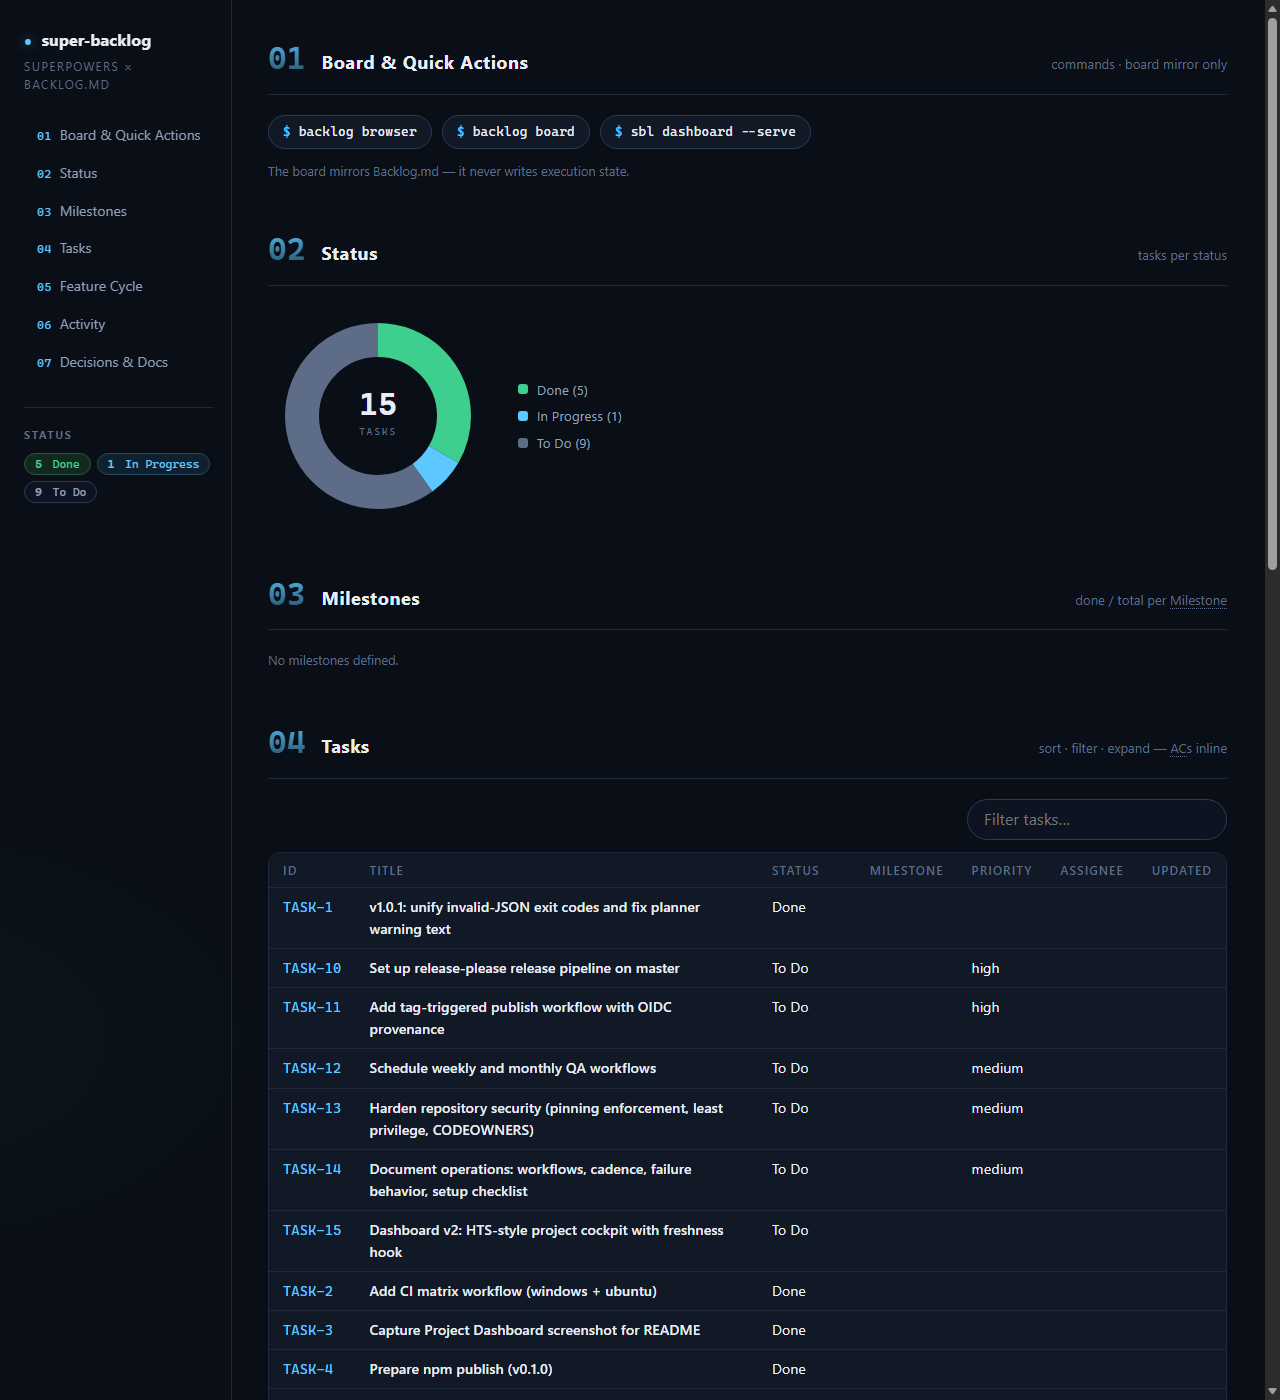
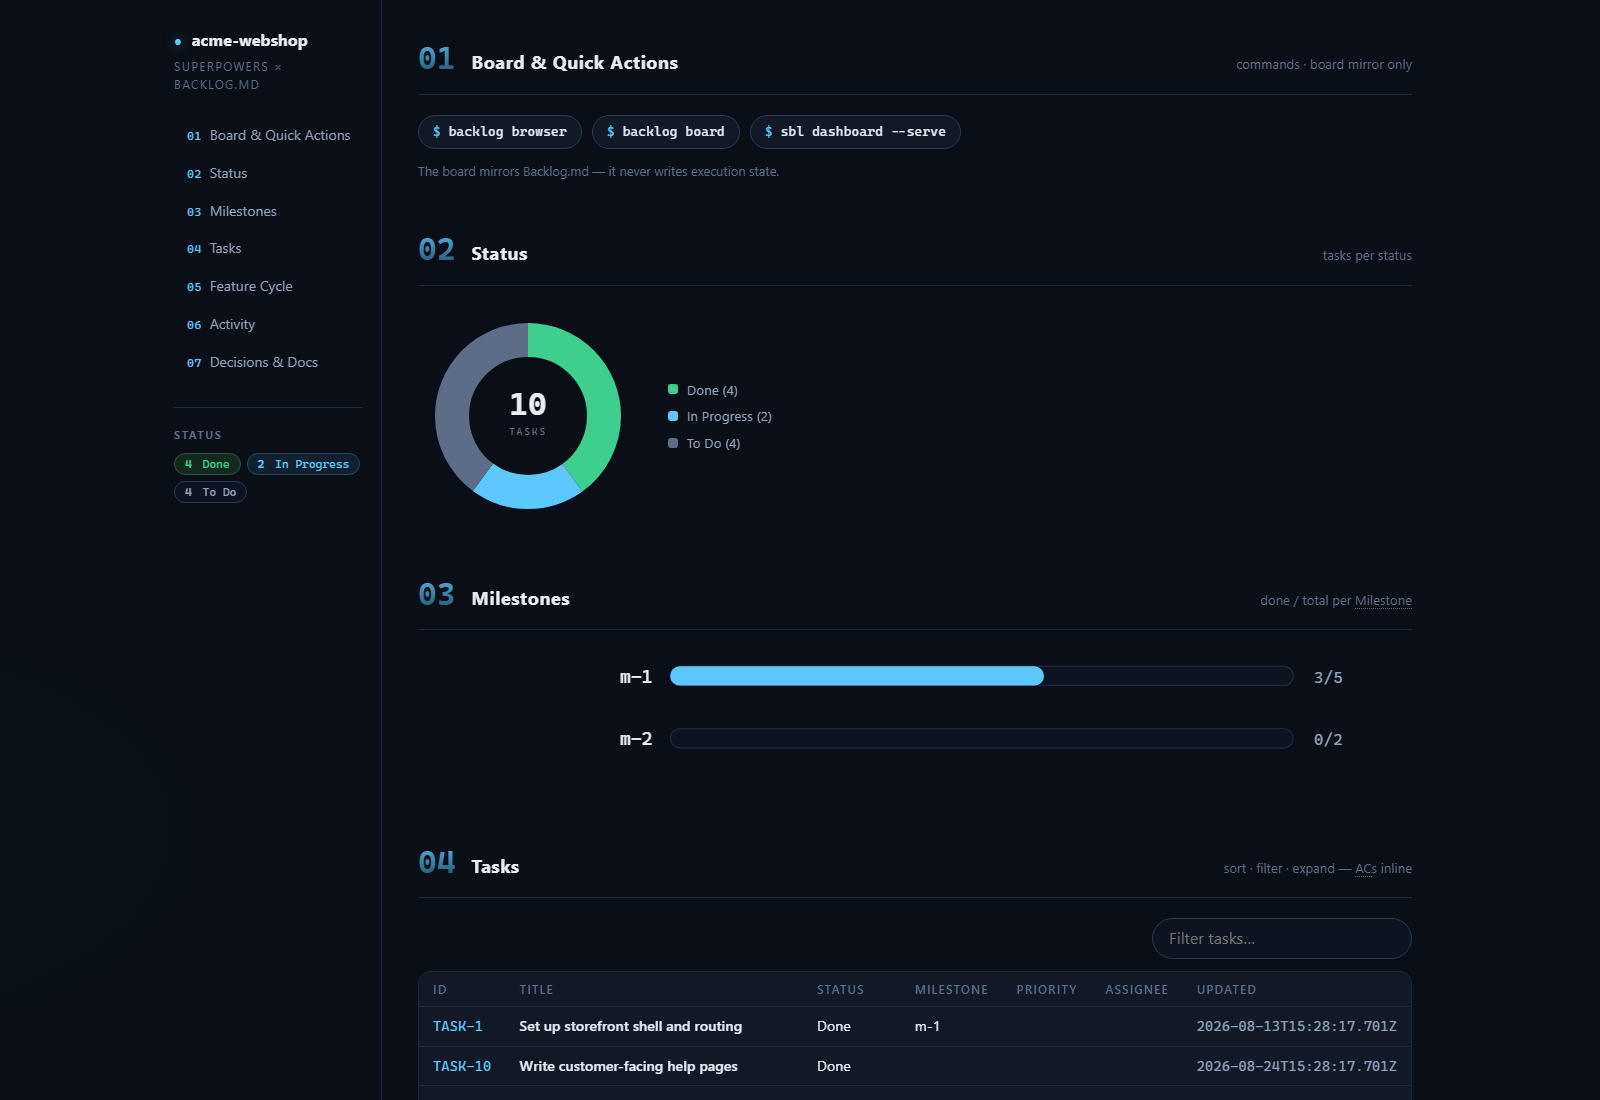
feat(docs): auto-refresh README dashboard screenshot from curated demo data
scripts/capture-dashboard.mjs renders the real dashboard against a curated demo project (acme-webshop: 10 tasks across all statuses, 2 milestones, dependency edges, live 30-day activity) and captures docs/assets/dashboard.png via headless Edge/Chrome. pages-deploy regenerates it on every master push and opens a refresh PR when it changed. npm run screenshot for local use.

diff --git a/backlog/tasks/task-33 - init-scaffold-minimal-package.json-when-absent.md b/backlog/tasks/task-33 - init-scaffold-minimal-package.json-when-absent.md
@@ -1,0 +1,40 @@
+---
+id: TASK-33
+title: 'init: scaffold minimal package.json when absent'
+status: Done
+assignee:
+  - '@adam'
+created_date: '2026-08-27 15:08'
+updated_date: '2026-08-27 15:21'
+labels:
+  - feature
+dependencies: []
+type: feature
+ordinal: 32000
+---
+
+## Description
+
+<!-- SECTION:DESCRIPTION:BEGIN -->
+In a project without package.json, init currently skips dependency installation ('no package manager detected') and the doctor pass then circularly advises 'npx super-backlog init'. init should scaffold a minimal package.json ({name: basename(cwd), private: true}) when none exists, then proceed with the normal install so one command ends in a working setup.
+<!-- SECTION:DESCRIPTION:END -->
+
+## Acceptance Criteria
+<!-- AC:BEGIN -->
+- [x] #1 init in a directory without package.json creates a minimal private package.json named after the directory and installs dependencies
+- [x] #2 No scaffolding when a package.json or lockfile already exists
+- [x] #3 Doctor pass after such an init resolves the backlog CLI (no circular advice)
+- [x] #4 Integration test covers the scaffold path
+<!-- AC:END -->
+
+## Implementation Plan
+
+<!-- SECTION:PLAN:BEGIN -->
+1. Research planner/execute: where skipInstall/no-PM is decided. 2. TDD: failing integration test - init in dir without package.json creates minimal private package.json (name=basename) and installs. 3. Implement scaffold step before PM detection/install; skip when package.json or lockfile exists. 4. Doctor resolves backlog after such init. 5. Full suite.
+<!-- SECTION:PLAN:END -->
+
+## Final Summary
+
+<!-- SECTION:FINAL_SUMMARY:BEGIN -->
+init now scaffolds a minimal package.json ({name: basename(cwd), private: true}) when none exists, then installs with npm and merges scripts/devDeps; the old 'no package manager detected' degrade path is gone. No scaffolding under --pm skip or when a package.json exists. Verified: 2 planner unit tests + 1 integration test; real run in a package.json-less dir ends with doctor 3 ok / 0 warn and backlog CLI resolvable (no circular advice). Full suite 316/316 green.
+<!-- SECTION:FINAL_SUMMARY:END -->

diff --git a/backlog/tasks/task-34 - Fix-Pages-dashboard-links-and-stale-main-docs-URLs.md b/backlog/tasks/task-34 - Fix-Pages-dashboard-links-and-stale-main-docs-URLs.md
@@ -1,0 +1,39 @@
+---
+id: TASK-34
+title: Fix Pages dashboard links and stale /main/ docs URLs
+status: Done
+assignee:
+  - '@adam'
+created_date: '2026-08-27 15:08'
+updated_date: '2026-08-27 15:25'
+labels:
+  - bug
+dependencies: []
+type: bug
+ordinal: 33000
+---
+
+## Description
+
+<!-- SECTION:DESCRIPTION:BEGIN -->
+VitePress SPA router intercepts clicks on /dashboard.html (not in the route map) and shows its own 404 even though the static file exists. Nav item and landing-page button need target=_blank. Also docs/guide/quickstart.md still references /main/ raw URLs (404); must be /master/.
+<!-- SECTION:DESCRIPTION:END -->
+
+## Acceptance Criteria
+<!-- AC:BEGIN -->
+- [x] #1 Nav Dashboard link and landing Project Dashboard button use target=_blank
+- [x] #2 No /main/ raw.githubusercontent URLs remain in docs (installer URLs use /master/)
+- [x] #3 Regression test in docs.test.ts asserts both
+<!-- AC:END -->
+
+## Implementation Plan
+
+<!-- SECTION:PLAN:BEGIN -->
+1. TDD: docs.test.ts regression tests (no /main/ raw URLs in docs, dashboard links carry target=_blank). 2. config.mts nav item + index.md landing button: target _blank/rel noreferrer. 3. quickstart.md /main/ -> /master/. 4. vitepress build + full suite green.
+<!-- SECTION:PLAN:END -->
+
+## Final Summary
+
+<!-- SECTION:FINAL_SUMMARY:BEGIN -->
+Root cause of the dead dashboard links: dashboard.html is a public static file outside the VitePress route map, so the SPA router swallowed clicks and rendered its own 404 despite the file existing (200). Nav item (config.mts) and landing button (index.md) now use target=_blank rel=noreferrer; verified in the built dist output. Stale /main/ installer URLs in README.md and docs/guide/quickstart.md corrected to /master/. Regression coverage: 3 new doc-rot tests in docs.test.ts (10/10 green); full suite + markdownlint/cspell clean.
+<!-- SECTION:FINAL_SUMMARY:END -->

diff --git a/backlog/tasks/task-35 - Auto-refresh-README-dashboard-screenshot-with-curated-demo-data.md b/backlog/tasks/task-35 - Auto-refresh-README-dashboard-screenshot-with-curated-demo-data.md
@@ -1,0 +1,33 @@
+---
+id: TASK-35
+title: Auto-refresh README dashboard screenshot with curated demo data
+status: Done
+assignee: []
+created_date: '2026-08-27 15:08'
+updated_date: '2026-08-27 15:29'
+labels:
+  - feature
+dependencies: []
+type: feature
+ordinal: 34000
+---
+
+## Description
+
+<!-- SECTION:DESCRIPTION:BEGIN -->
+docs/assets/dashboard.png is captured manually and shows stale real-repo data. Add scripts/capture-dashboard.mjs that builds a curated demo backlog dataset (tasks across statuses, milestone, dependencies, 30-day activity) in a temp project, renders the dashboard from it, and captures docs/assets/dashboard.png via headless Edge. pages-deploy runs it and commits the png back when changed ([skip ci]). Also expose npm run screenshot for local use.
+<!-- SECTION:DESCRIPTION:END -->
+
+## Acceptance Criteria
+<!-- AC:BEGIN -->
+- [x] #1 scripts/capture-dashboard.mjs regenerates docs/assets/dashboard.png from curated demo data
+- [x] #2 pages-deploy workflow updates the png automatically when it changes
+- [x] #3 npm run screenshot works locally
+- [x] #4 Screenshot visually verified to show illustrative example data
+<!-- AC:END -->
+
+## Final Summary
+
+<!-- SECTION:FINAL_SUMMARY:BEGIN -->
+Added scripts/capture-dashboard.mjs: builds a curated demo project (acme-webshop, 10 tasks across all statuses, 2 milestones, dependency edges, 30-day activity via relative dates) behind a fake backlog bin, renders the real dashboard from it, and captures docs/assets/dashboard.png via headless Edge (Win) or Chrome/Chromium (Linux CI). Verified by execution: 123.9 KB png showing the full cockpit with illustrative data (visually inspected). npm run screenshot wired; pages-deploy regenerates the png on every master push and opens a refresh PR (docs/dashboard-screenshot branch) when it changed. Full suite green.
+<!-- SECTION:FINAL_SUMMARY:END -->

diff --git a/backlog/tasks/task-32 - Dashboard-directory-name-fallback-for-project-identity.md b/backlog/tasks/task-32 - Dashboard-directory-name-fallback-for-project-identity.md
@@ -1,0 +1,39 @@
+---
+id: TASK-32
+title: 'Dashboard: directory-name fallback for project identity'
+status: Done
+assignee:
+  - '@adam'
+created_date: '2026-08-27 15:08'
+updated_date: '2026-08-27 15:12'
+labels:
+  - bug
+dependencies: []
+type: bug
+ordinal: 31000
+---
+
+## Description
+
+<!-- SECTION:DESCRIPTION:BEGIN -->
+readProjectIdentity in src/dashboard/data.ts falls back to 'Untitled project' when neither backlog config nor package.json provide a name. Add basename(cwd) as the fallback before the generic placeholder so dashboards of projects without package.json show the concrete directory name.
+<!-- SECTION:DESCRIPTION:END -->
+
+## Acceptance Criteria
+<!-- AC:BEGIN -->
+- [x] #1 Dashboard shows basename(cwd) when config and package.json yield no name
+- [x] #2 Existing precedence (config project_name, config name, pkg name) is unchanged
+- [x] #3 Unit tests cover the new fallback and the unchanged precedence
+<!-- AC:END -->
+
+## Implementation Plan
+
+<!-- SECTION:PLAN:BEGIN -->
+TDD: 1. Failing test in dashboard-data.test.ts: no config, no package.json -> project name is basename(cwd). 2. Add fallback in readProjectIdentity. 3. Precedence tests stay green. 4. Full suite.
+<!-- SECTION:PLAN:END -->
+
+## Final Summary
+
+<!-- SECTION:FINAL_SUMMARY:BEGIN -->
+readProjectIdentity now falls back to basename(cwd) before the generic placeholder; precedence config project_name > config name > package.json name unchanged. Verified with 2 new unit tests (22/22 in dashboard-data.test.ts) and a real reproduction: dashboard.html for a package.json-less project titled 'mein-test-projekt' now shows the directory name in title and brand.
+<!-- SECTION:FINAL_SUMMARY:END -->
